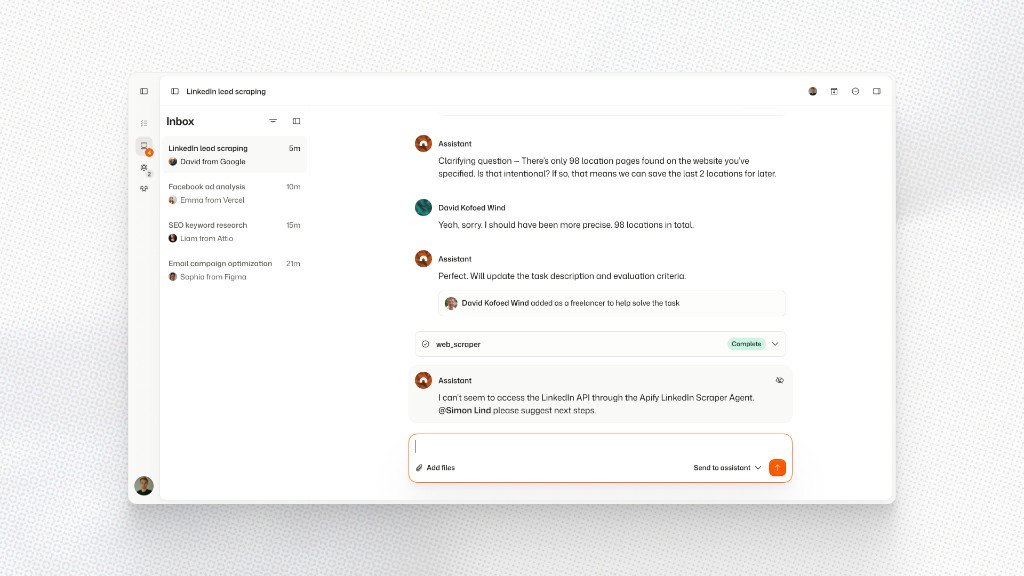
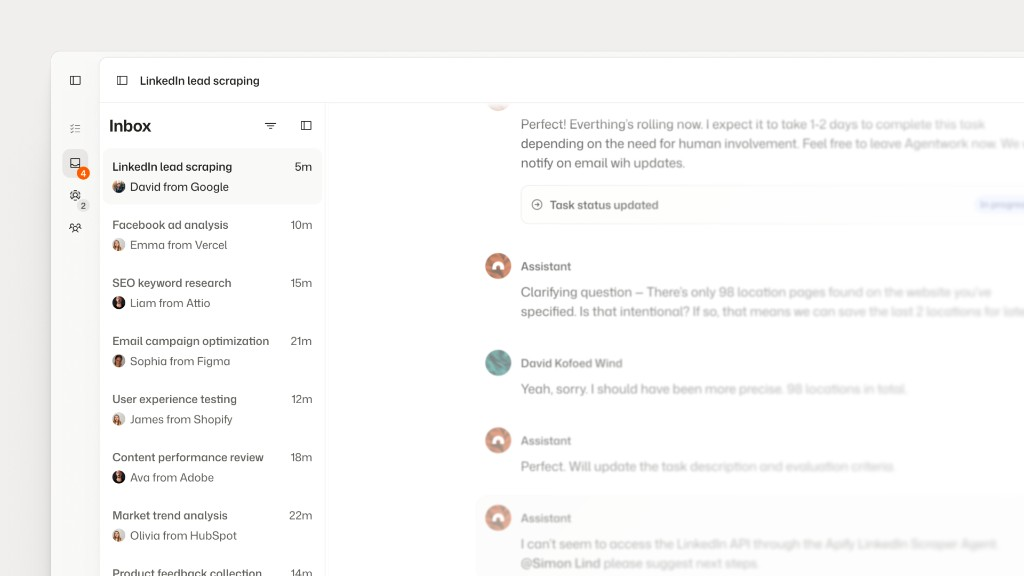
New feed item

diff --git a/app/routes/feed.tsx b/app/routes/feed.tsx
@@ -26,6 +26,7 @@ import Feed21 from "../components/feed/21";
 import Feed22 from "../components/feed/22";
 import Feed23 from "../components/feed/23";
 import Feed24 from "../components/feed/24";
+import Feed25 from "../components/feed/25";
 
 export const meta: MetaFunction = () => {
   return createMetaTags({
@@ -41,6 +42,13 @@ export default function Photos() {
         A feed of my work, sketches, ideas and experiments.
       </p>
       <section className={styles.imagesContainer}>
+        <div className={styles.imageContainer}>
+          <Feed25 />
+          <div className={styles.caption}>
+            <p>Revised home page</p>
+            <p>April, '26</p>
+          </div>
+        </div>
         <div className={styles.imageContainer}>
           <Feed24 />
           <div className={styles.caption}>

diff --git a/app/components/feed/25.tsx b/app/components/feed/25.tsx
@@ -1,0 +1,12 @@
+import img25 from "../../assets/feed/25.png";
+
+export default function feed25() {
+  return (
+    <img
+      src={img25}
+      alt="Feed item 25"
+      width="1024"
+      height="576"
+    />
+  );
+}

diff --git a/app/components/feed/24.tsx b/app/components/feed/24.tsx
@@ -5,8 +5,8 @@ export default function feed24() {
     <img
       src={img24}
       alt="Feed item 24"
-      width="1920"
-      height="1080"
+      width="1024"
+      height="576"
     />
   );
 }
